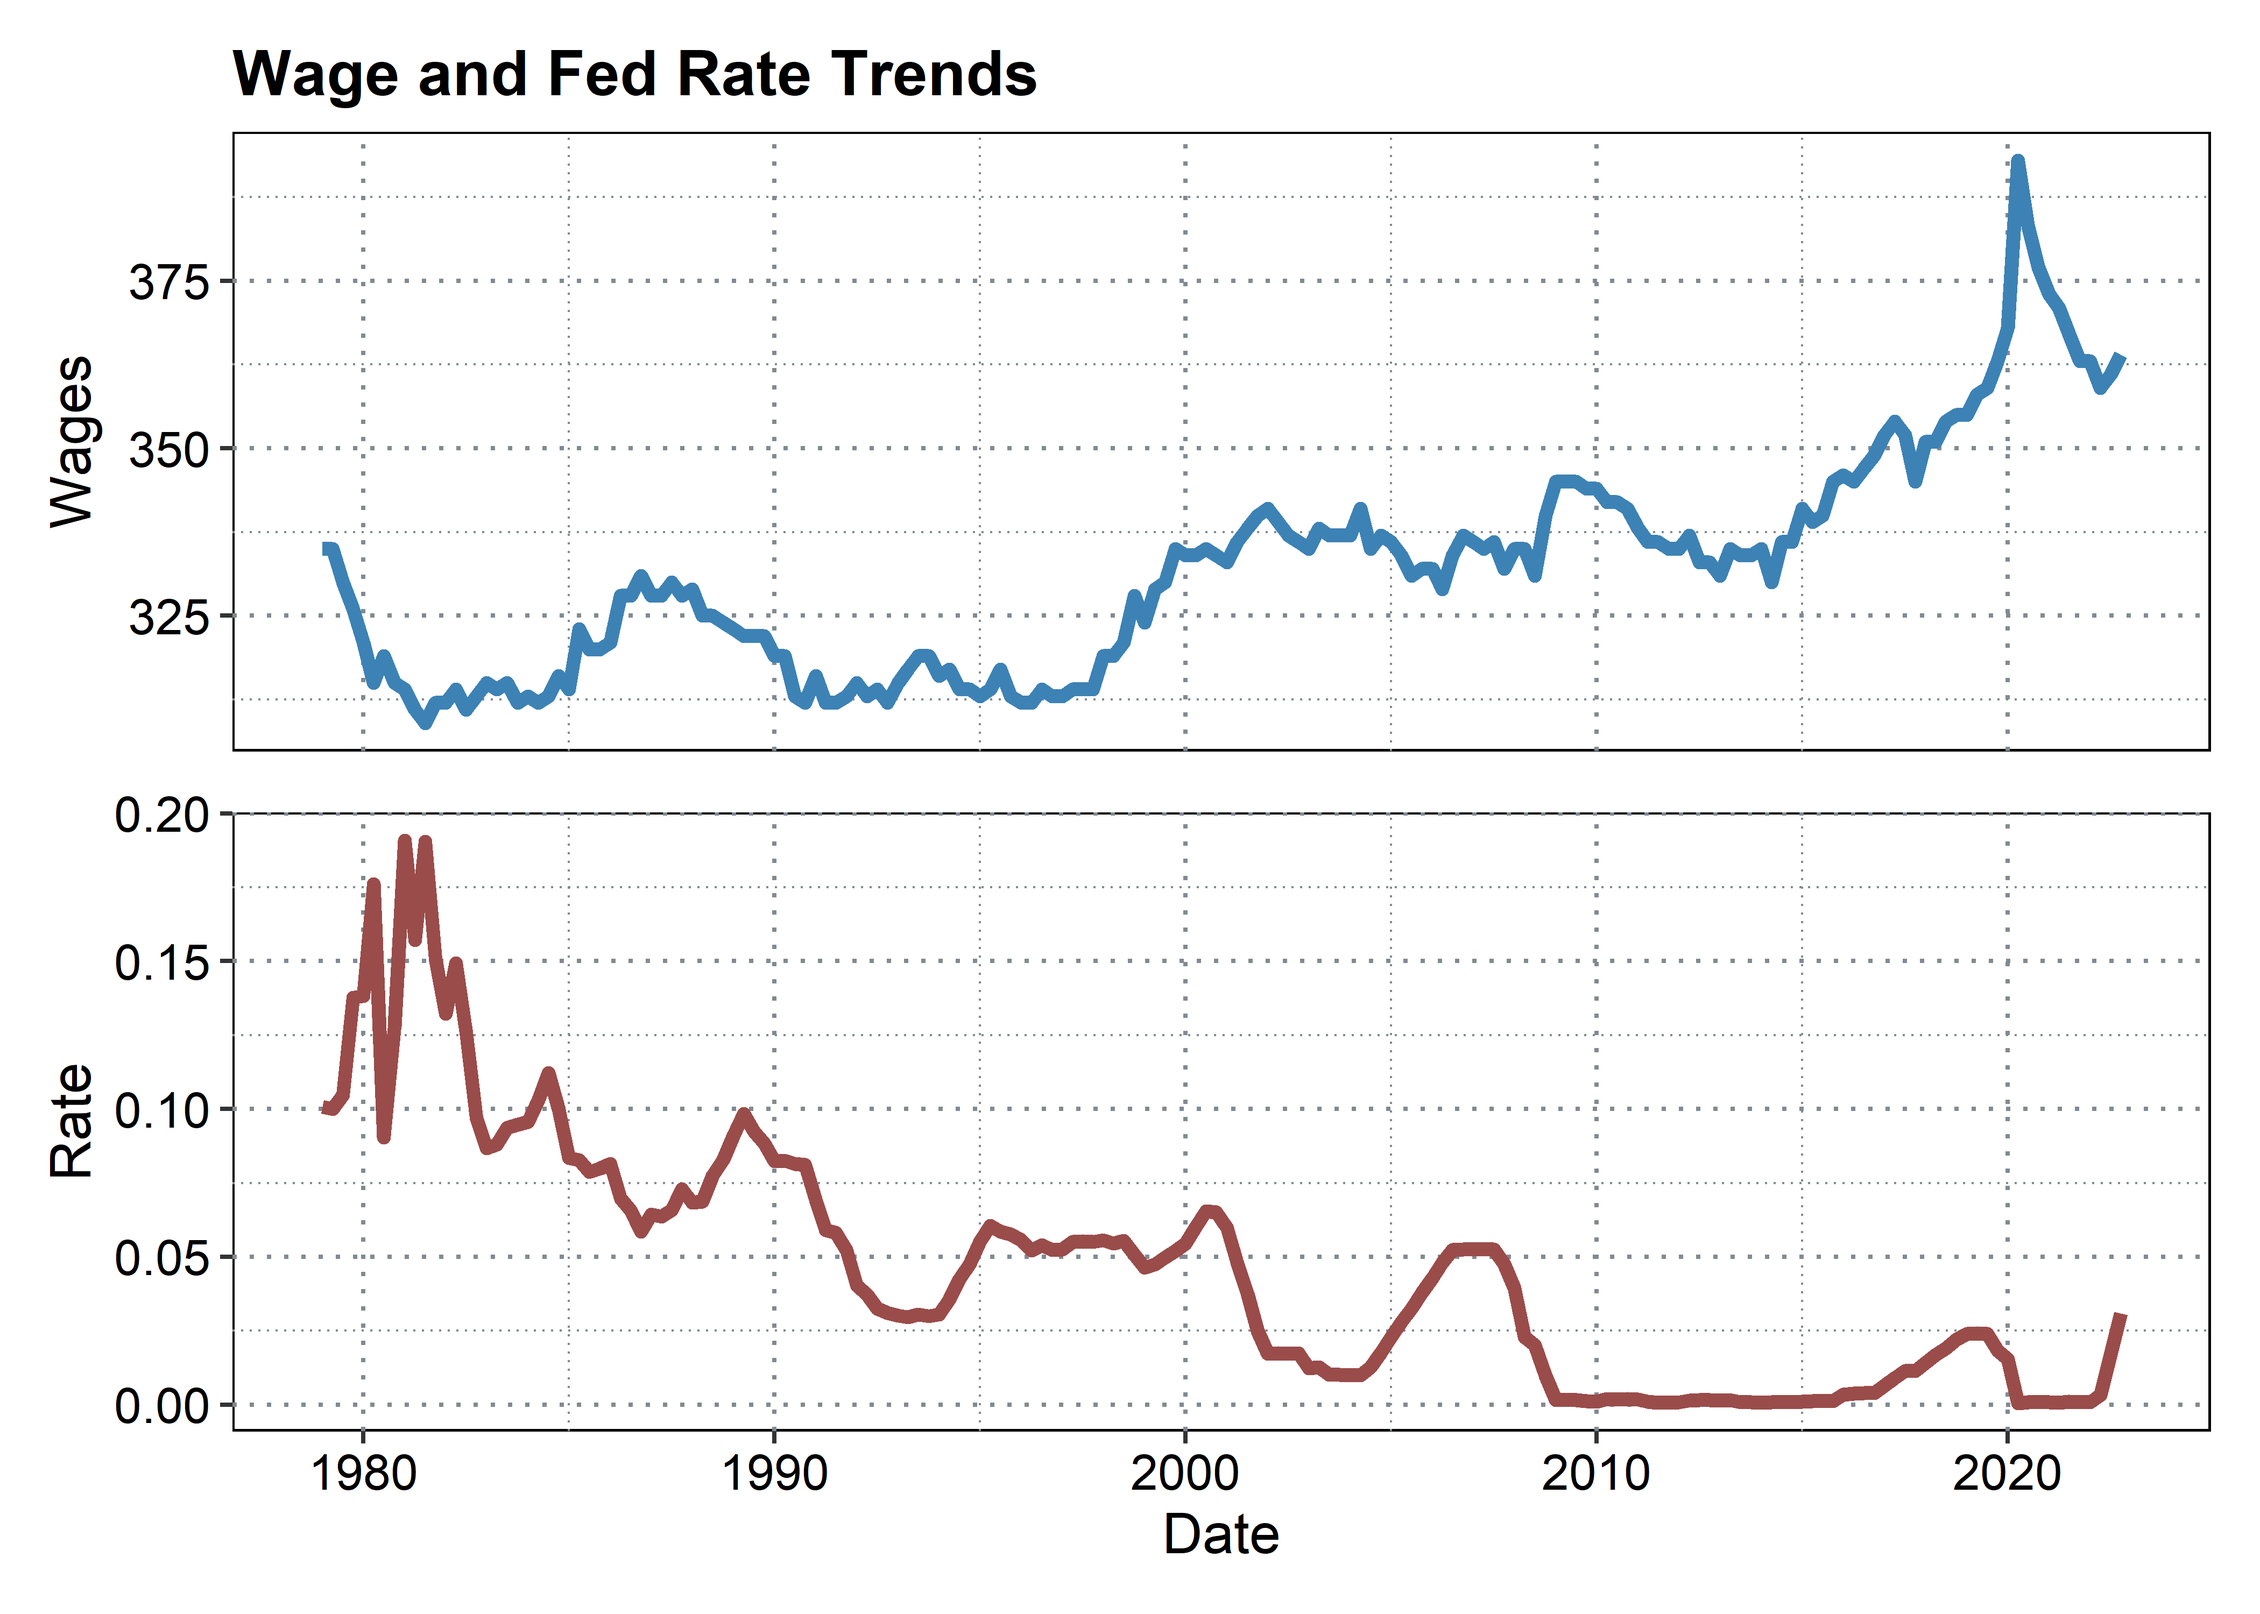
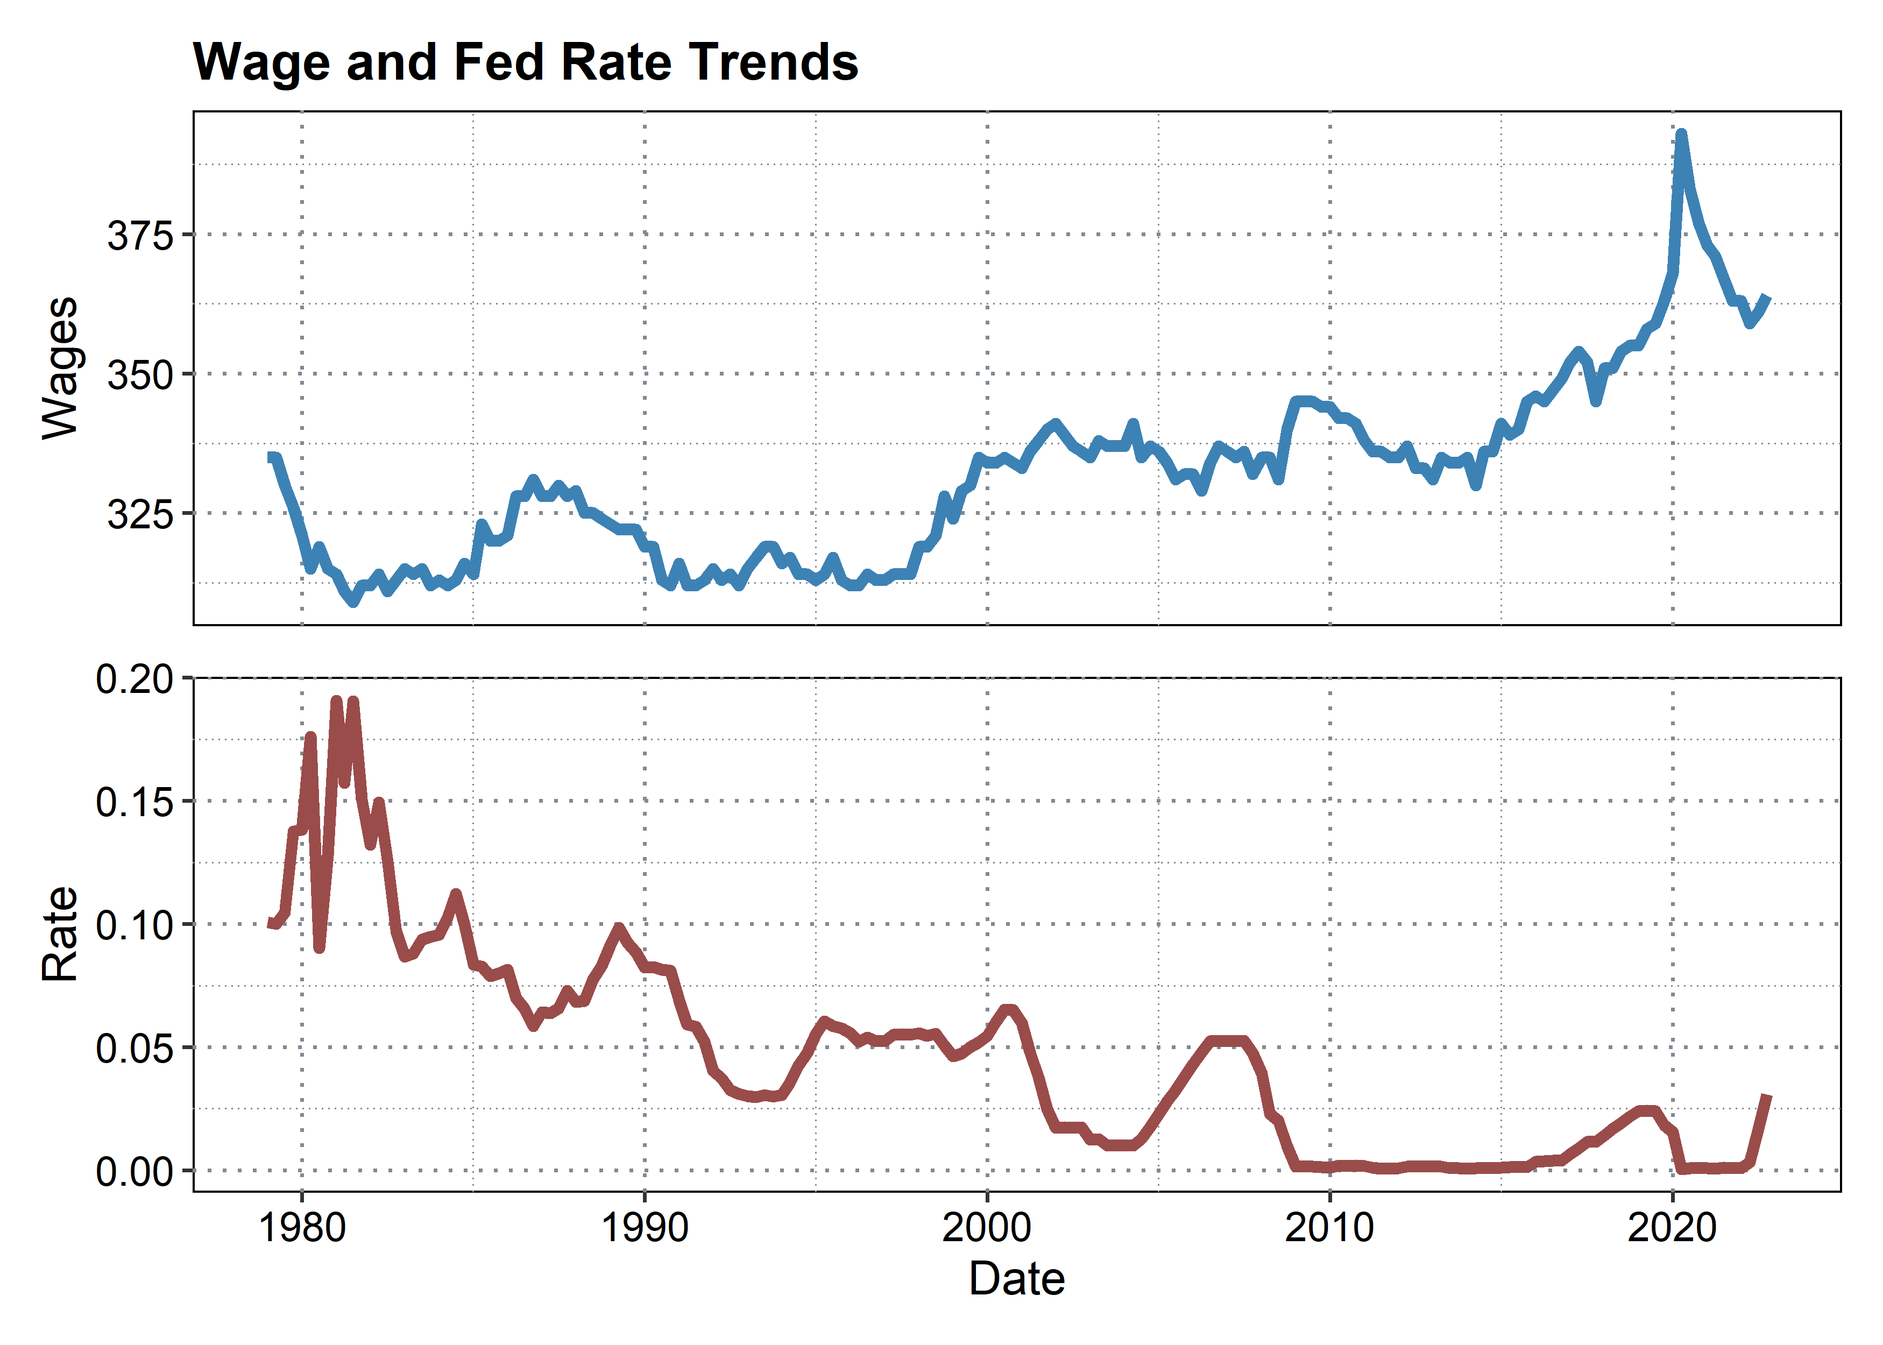
Adjsuted image quality

diff --git a/README.md b/README.md
@@ -8,7 +8,7 @@ piece examined this trend in both the 1990’s and 2000’s, I’m only going
 to analyze data for the latter period (in part for simplicity’s sake,
 and in part because the 1990’s data presents a more multifaceted picture
 that I believe would require some more advanced analytics to
-understand). 
+understand).
 
 As I noted in the linked piece, [UNC Economics professor Karl Smith
 argues](https://www.bloomberg.com/opinion/articles/2019-05-02/u-s-worker-productivity-is-up-and-the-fed-should-pay-attention)
@@ -30,14 +30,14 @@ between these two variables.
 First, I’ll visualize the data. This scatterplot compares the two
 datasets:
 
-![](FFR-Markdown_files/figure-markdown_strict/unnamed-chunk-3-1.png)
+<img src="FFR-Markdown_files/figure-markdown_strict/unnamed-chunk-3-1.png" width="75%" />
 
 We can see just from this that higher wages tend to cluster around a
 lower FFR. A line graph depicting these trends over time suggests the
 same, with a declining FFR depicted in red above, and increasing wages
 depicted in blue below:
 
-![](FFR-Markdown_files/figure-markdown_strict/unnamed-chunk-4-1.png)
+<img src="FFR-Markdown_files/figure-markdown_strict/unnamed-chunk-4-1.png" width="75%" />
 
 However, we’re not simply testing whether a lower federal funds rate
 correlates with lower wages, but rather, whether the federal funds rate

diff --git a/FFR-Markdown.md b/FFR-Markdown.md
@@ -30,14 +30,14 @@ between these two variables.
 First, I’ll visualize the data. This scatterplot compares the two
 datasets:
 
-![](FFR-Markdown_files/figure-markdown_strict/unnamed-chunk-3-1.png)
+<img src="FFR-Markdown_files/figure-markdown_strict/unnamed-chunk-3-1.png" width="75%" />
 
 We can see just from this that higher wages tend to cluster around a
 lower FFR. A line graph depicting these trends over time suggests the
 same, with a declining FFR depicted in red above, and increasing wages
 depicted in blue below:
 
-![](FFR-Markdown_files/figure-markdown_strict/unnamed-chunk-4-1.png)
+<img src="FFR-Markdown_files/figure-markdown_strict/unnamed-chunk-4-1.png" width="75%" />
 
 However, we’re not simply testing whether a lower federal funds rate
 correlates with lower wages, but rather, whether the federal funds rate
